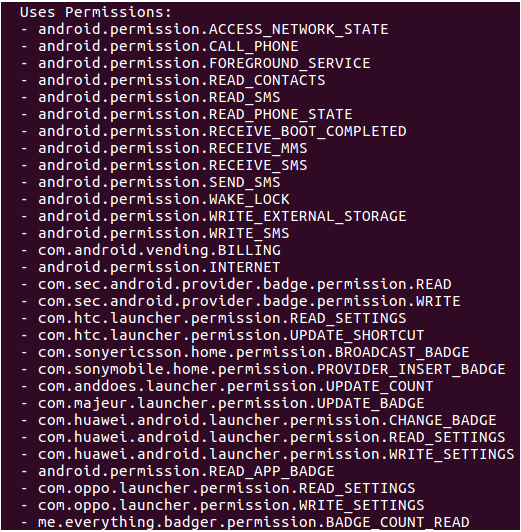
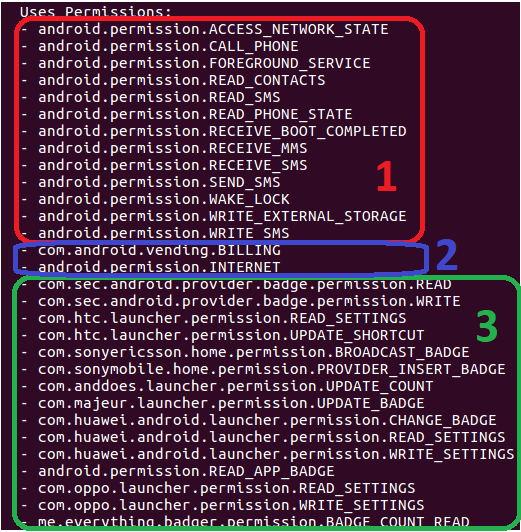
Security finished

Changed region(s): [[0.0, 0.0301, 1.0, 1.0], [0.7063, 0.3008, 0.7678, 0.3609], [0.9213, 0.5714, 0.952, 0.6617]]

diff --git a/src/security/Security.js b/src/security/Security.js
@@ -11,12 +11,49 @@ export default class Security extends Component {
                     title="Permission Management"
                     level={2}
                     imageUrl={"/screenshots/PermissionUse.PNG"}
-                    analysis="The application uses all the permissions declared in the AndroidManifest.xml, so there are no
-                    floating permissions to be exploited by an external application.
-                    Nevertheless, the app does requests and use some permissions that it is not clear why it needs them or what it does with them.
-                    Internet permission is a weird think to ask when the app only sends sms."
+                    analysis={
+                        <div>
+                            <p>
+                                The application uses all the permissions declared in the AndroidManifest.xml, so there
+                                are no floating permissions to be exploited by an external application. Nevertheless,
+                                the app does requests and use some permissions that it is not clear why it needs them or
+                                what it does with them. A complete analysis of the 3 permission blocks is done below:
+                            </p>
+                            <ol>
+                                <li>
+                                    <p>
+                                        <strong>Core Permissions: </strong>every permission in this set is used for SMS
+                                        management and are directly related to the core functionality of the
+                                        application.
+                                    </p>
+                                </li>
+                                <li>
+                                    <p>
+                                        <strong>Connection Permissions: </strong>even though BILLING and INTERNET permissions
+                                        are not part of the main functionality of the application, these are used for the
+                                        user to make donations to the project via internet. This shows that the use of
+                                        these permissions are aligned with side features that are not harmful for the user.
+                                    </p>
+                                </li>
+                                <li>
+                                    <p>
+                                        <strong>Manufacturer Permissions: </strong>the permissions in this set are
+                                        related to manufacturer features, more specifically the use of device notifications.
+                                        The badge, read and write permissions permit the use of the notification bar and
+                                        features of different type of phones by the application.
+                                    </p>
+                                </li>
+                            </ol>
+                            <p>
+                                Aside from the permissions mentioned earlier, we found other permissions related to
+                                user location that are not directly involved with any core or side functionality of
+                                the application and are not asked for the user to accept. This is why we consider that
+                                is a security risk for the user to leak its position via this application.
+                            </p>
+                        </div>
+                    }
                     imageUrl2={"/screenshots/locationPermission.jpeg"}
-                    recommendation="Remove Internet and Location permissions or be straightforward to the users to why these permissions
+                    recommendation="Remove LOCATION permissions or be straightforward to the users to why these permissions
                      are needed."
                 />
 
